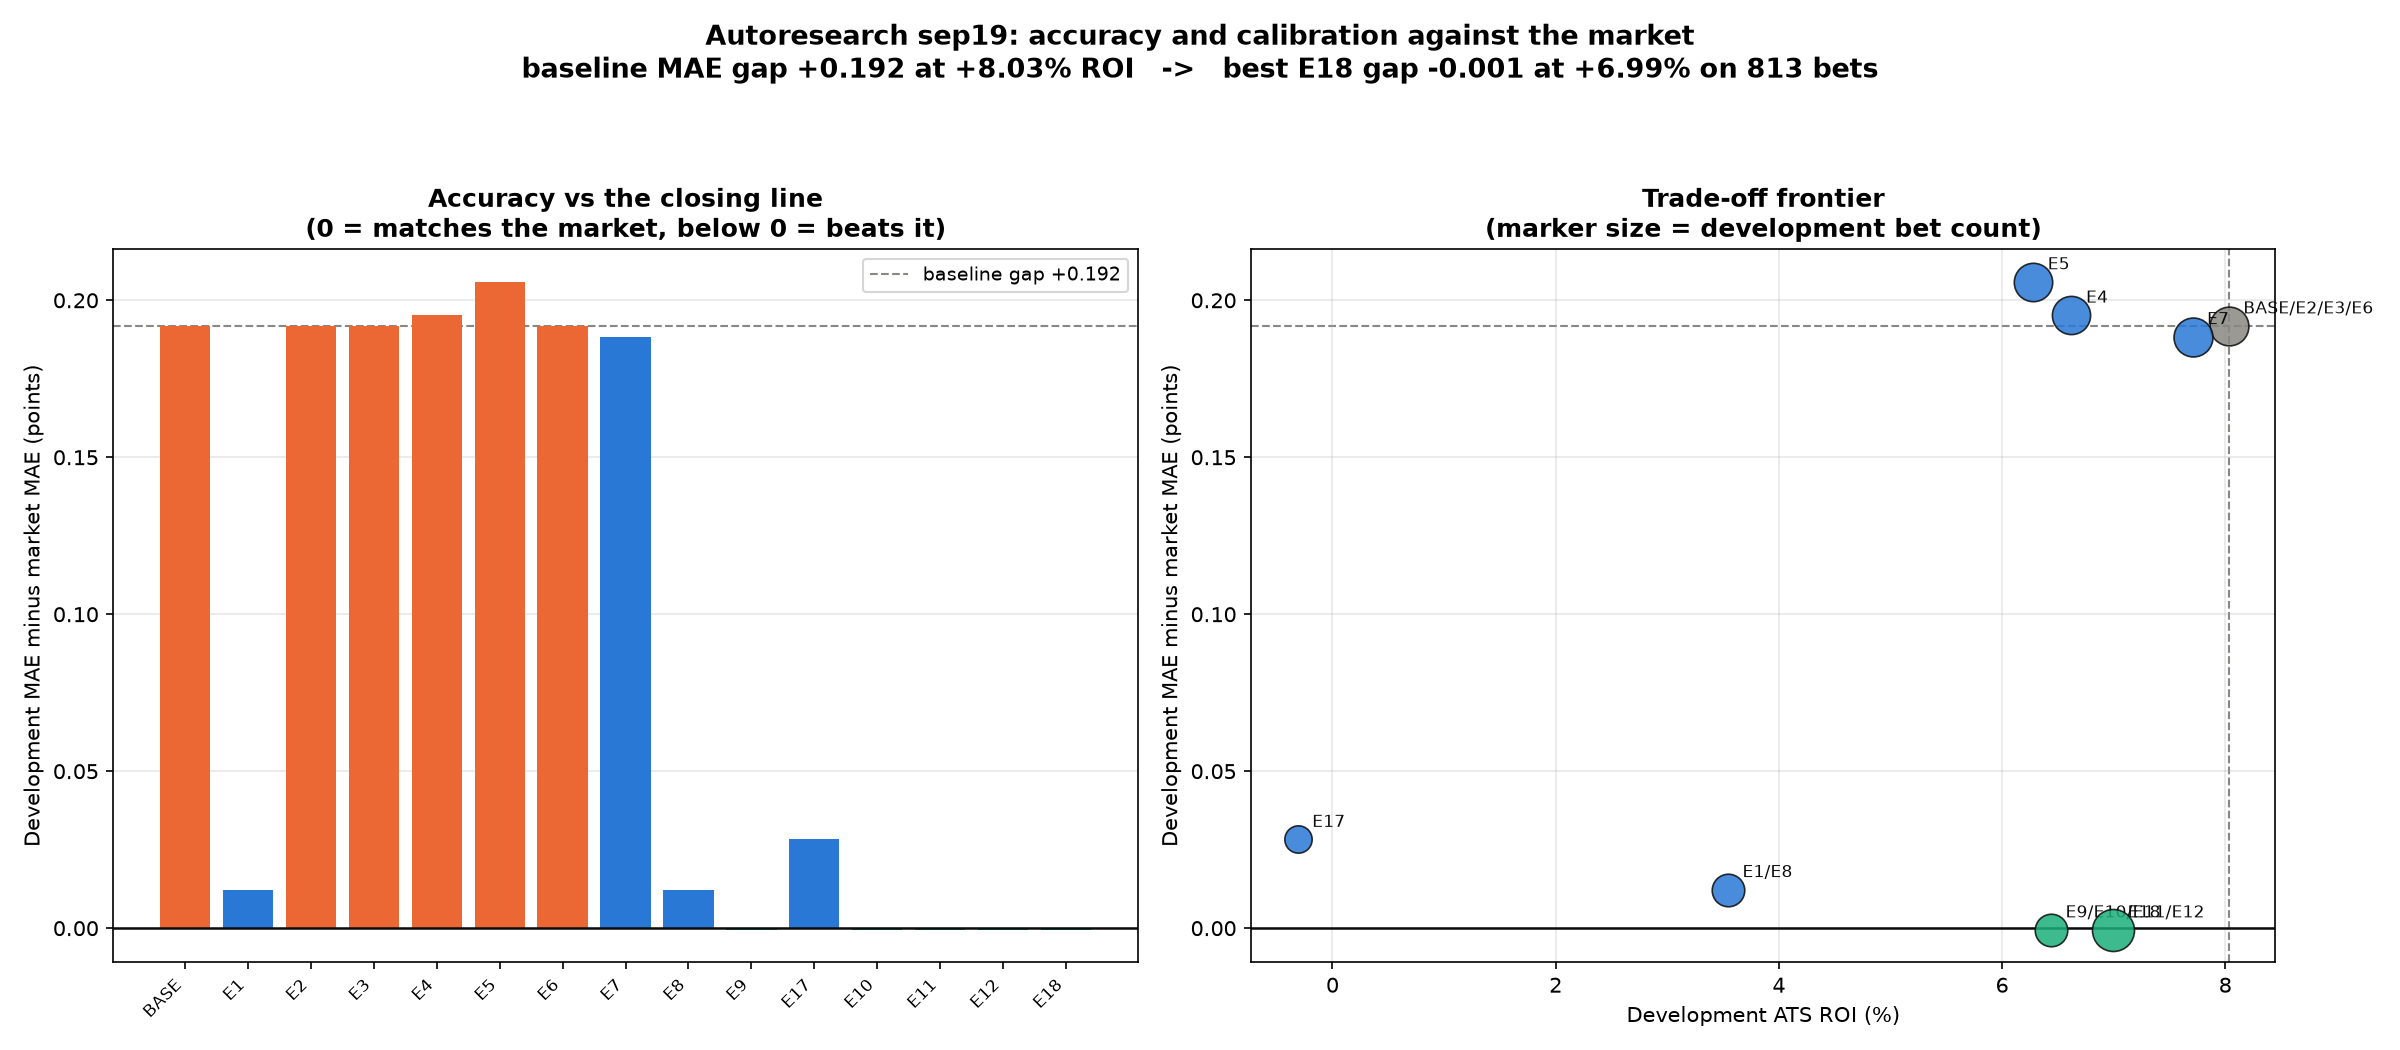
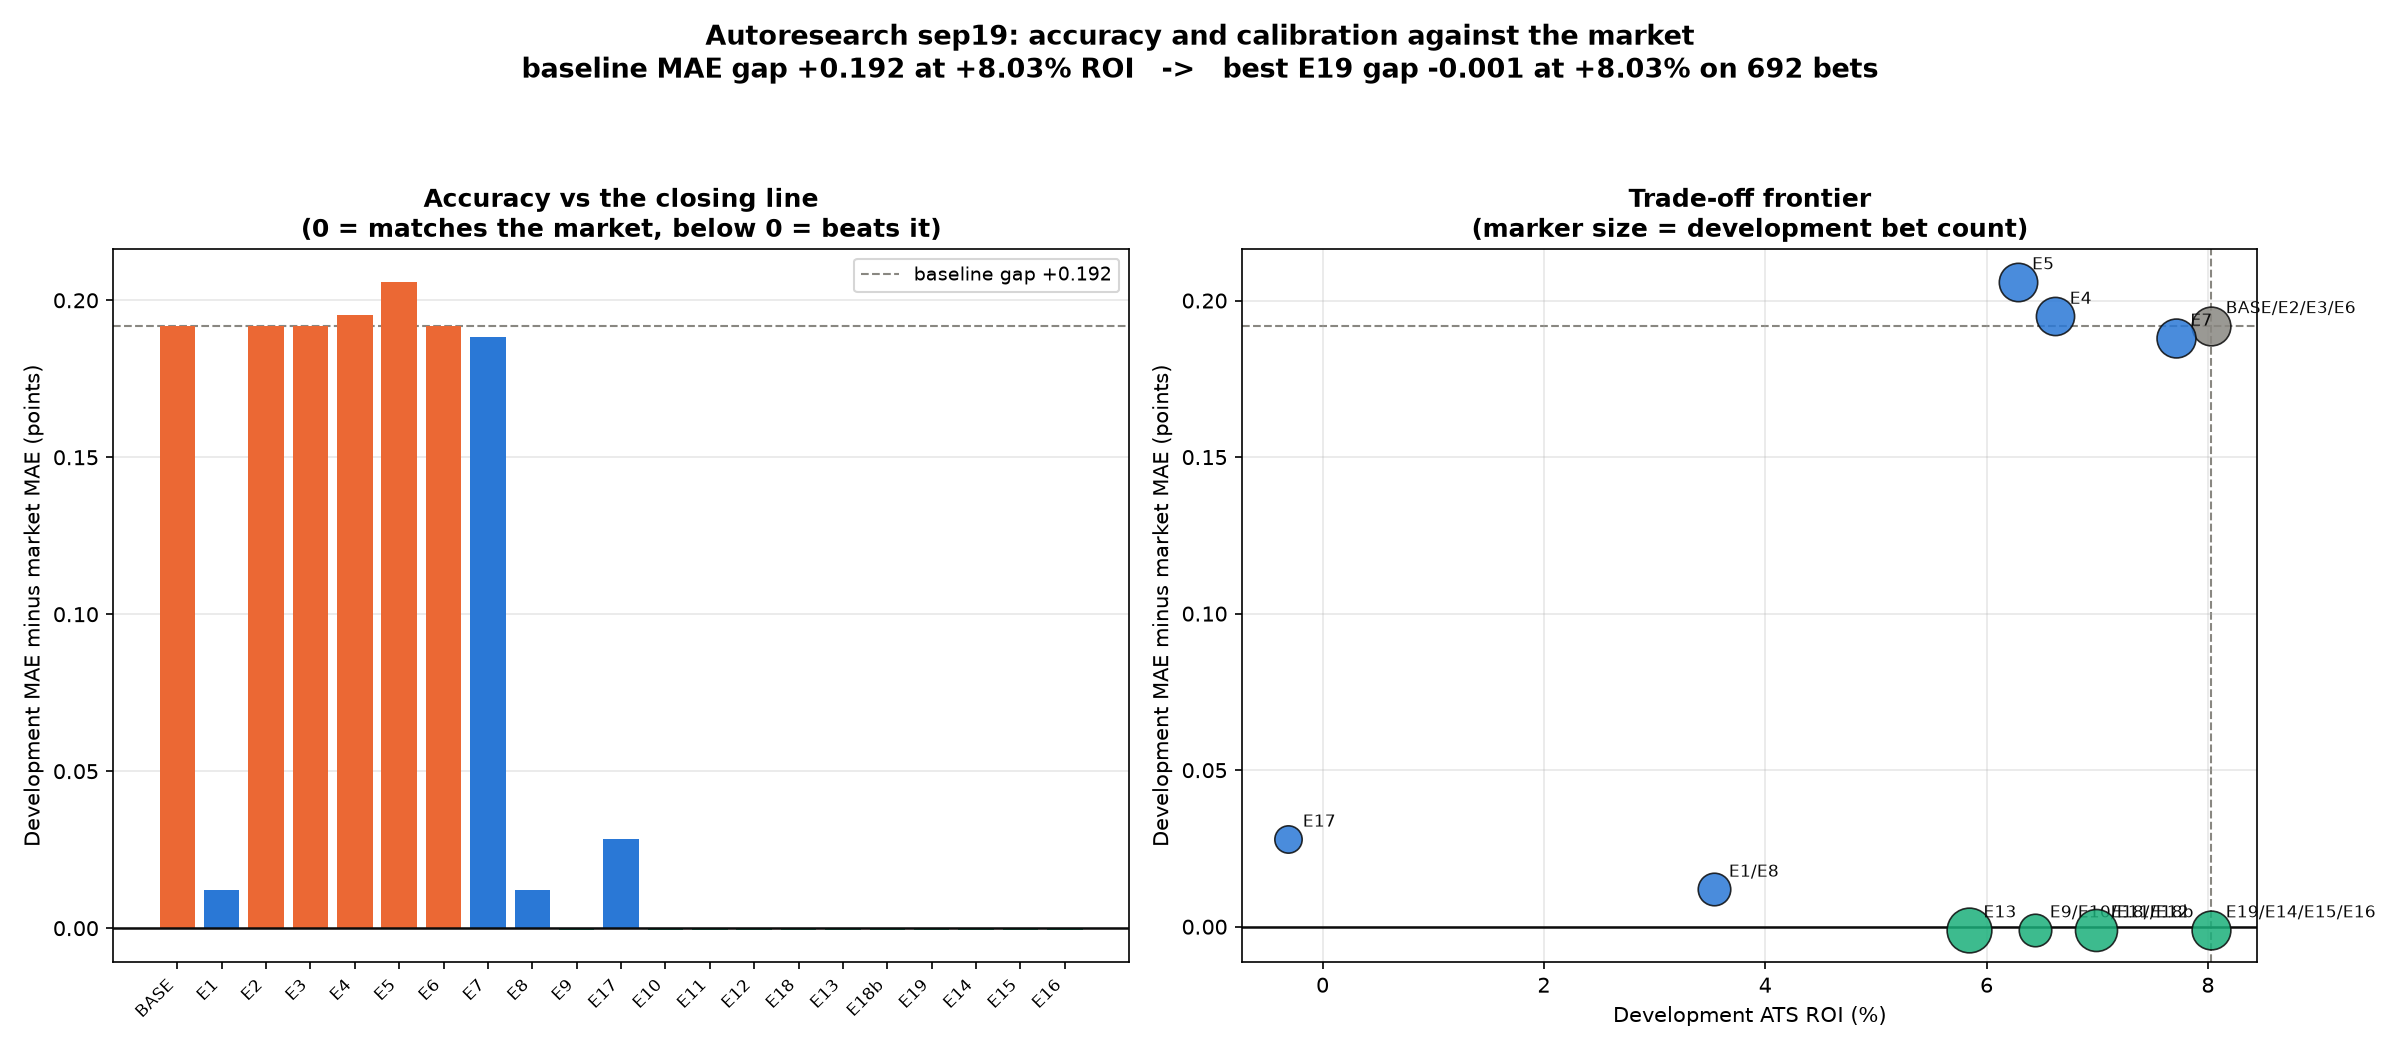
outputs: round-3b results in the accuracy log and chart; bug ledger update
accuracy_log.tsv gains the six round-3b experiments, parsed from their
frozen summary.txt files rather than the workflow task output, which lives
in a session temp directory and will not survive.

plot_accuracy_progress.py: compare MAE gaps at 3 decimals when picking the
headline "best" and when merging coincident points. At full float precision
a row parsed from a 4-decimal summary.txt lost to an identical one carried
through at full precision, so the title named E18 (+6.99% on 813 bets)
instead of E19 (+8.03% on 692) despite an identical MAE gap. A thousandth
of a point of MAE is far below anything meaningful here.

BUGS.md: item 1 rewritten -- the 2afa00d fix was half a fix, and f306990
completes it (the *_roll8 columns were never null, so forward-filling nulls
did not touch them). Adds items 11 and 12, both adoption blockers for the
anchored ensemble: the dashboard reads ats_edge rather than the new
ats_edge_select, and ats_edge_shrinkage/ats_edge_shrunk keep their names
while changing meaning.

diff --git a/scripts/plot_accuracy_progress.py b/scripts/plot_accuracy_progress.py
@@ -102,7 +102,7 @@ def main():
     for r in rows:
         if r["dev_mae_gap"] is None or r["ats_dev_roi"] is None:
             continue
-        key = (round(r["ats_dev_roi"], 6), round(r["dev_mae_gap"], 6))
+        key = (round(r["ats_dev_roi"], 4), round(r["dev_mae_gap"], 3))
         merged.setdefault(key, []).append(r)
 
     for (roi, mae), group in merged.items():
@@ -124,12 +124,17 @@ def main():
                   fontsize=12, fontweight="bold")
     ax2.grid(True, alpha=0.3, zorder=0)
 
-    # Best = smallest MAE gap, breaking the frequent exact ties (a
-    # calibration-only change moves neither ROI nor MAE) on ROI first and bet
-    # count second, so the headline names the variant actually worth keeping.
+    # Best = smallest MAE gap, breaking ties on ROI first and bet count
+    # second, so the headline names the variant actually worth keeping.
+    # Ties are frequent and must be treated as ties: a calibration-only change
+    # moves neither ROI nor MAE, and several rows share one bet universe.
+    # Rounded to 3 decimals deliberately -- a thousandth of a point of MAE is
+    # far below anything meaningful here, and comparing at full float
+    # precision let a row parsed from a 4-decimal summary.txt lose to an
+    # identical one carried at full precision from a workflow result.
     best = min(
         (r for r in rows if r["dev_mae_gap"] is not None),
-        key=lambda r: (round(r["dev_mae_gap"], 6), -(r["ats_dev_roi"] or 0), -r["ats_dev_n"]),
+        key=lambda r: (round(r["dev_mae_gap"], 3), -(r["ats_dev_roi"] or 0), -r["ats_dev_n"]),
     )
     fig.suptitle(
         f"Autoresearch sep19: accuracy and calibration against the market\n"

diff --git a/BUGS.md b/BUGS.md
@@ -10,15 +10,36 @@ the production model) · **LIMITATION** (known, not fixable with current data).
 
 ---
 
-## 1. Team rolling form is null for any game beyond the current week — FIXED (2afa00d)
+## 1. Team rolling form is wrong for games beyond the current week — FIXED (2afa00d, completed by f306990)
 
-**Status:** `feature_engineering._carry_form_into_unplayed` forward-fills
-within team into unplayed rows only. Verified on 2026-09-20: all eleven
-prediction and bet tables byte-identical to the baseline run, played rows of
-the modeling table identical, and the six team-form features have 0 nulls
-on all 31 upcoming games (was 16) and on all 255 unplayed 2026 games.
-Twenty of 31 live predictions changed; qualifying picks went from 1 ATS /
-6 ML to 2 ATS / 5 ML. Independently reviewed as part of round 3.
+**Status:** fixed in two passes, because the first was only half of it.
+
+`2afa00d` added `feature_engineering._carry_form_into_unplayed`, forward-filling
+nulls within team into unplayed rows only. That repaired the `*_ewm` columns:
+the six team-form features went from 16 of 31 upcoming games null to 0, and
+0 nulls across all 255 unplayed 2026 games.
+
+**An adversarial review then showed the `*_roll8` columns were untouched by
+that fix, because they were never null.** `rolling_mean(min_samples=1)` skips
+nulls inside its window instead of returning null, so a team's k-th unplayed
+game averaged its last `window - k + 1` completed games: a sample that shrinks
+week by week until it is a single game, and then sticks there. Measured drift
+on `margin_roll8` against the team's true current form: 1.4 points at the next
+game, 2.5 at the one after, 11.1 by the eighth. LightGBM consumes every
+`*_roll8_diff` (`modeling.gbm_feature_columns`), so this reached the LightGBM
+rows of the live board; ridge reads only the `_ewm` columns and was unaffected
+by this second failure, and the ensemble excludes LightGBM.
+
+`f306990` sources the carried value explicitly from each team's FIRST unplayed
+game, the only scheduled row whose window is entirely completed games, then
+forward-fills. Verified: every form column is now constant across each team's
+unplayed rows with zero nulls (Kansas City holds -2.25 for every remaining
+week, against -2.25 / -3.0 / ... / 21.0 before), the backtest is byte-identical
+across 13 prediction, bet and contribution tables, and played rows of the
+modeling table are unchanged.
+
+**Lesson worth keeping:** the two rolling functions in `_rolling_exprs` have
+opposite null semantics. Any future change there must check both.
 
 **Where:** `feature_engineering._rolling_exprs` / `add_rolling_form`.
 **What:** rolling form is `shift(1).over(team)` then `ewm_mean(min_samples=1)`.
@@ -87,6 +108,29 @@ inferred, not proven: the task runs interactively with a visible console
 that can be closed, and only while the user is logged on.
 **Fix:** register the action with `-WindowStyle Hidden` and an S4U principal
 so it does not depend on the interactive session; verify with a manual run.
+
+## 11. Dashboard would read the wrong edge column under an anchored ensemble — OPEN (blocks adoption of E19)
+
+**Where:** `app/streamlit_app.py` `regraded_bets` and the two `decide_bet_side`
+call sites; `backtesting.regrade_ats` / `decide_bet_side` default to `ats_edge`.
+**What:** the adopted candidate E19 reports the anchored margin but selects
+bets on `ats_edge_select` / `ats_select_threshold_used`. The dashboard reads
+`ats_edge` / `ats_threshold_used`, which under E19 are the anchored (roughly
+4x smaller) display values. The reviewer measured it against the E19 parquet:
+"Pipeline (per game)" mode yields 573 bets agreeing with the stored book on
+only 2,987 of 3,312 rows, and the manual 3.5-point slider yields 4 bets.
+**Not yet a live defect** — E19 is not merged, and against today's parquets the
+dashboard is correct. Must be fixed in the same change that merges E19: prefer
+the `_select` columns when present, fall back to the current ones.
+
+## 12. Column semantics change silently under anchoring — OPEN (documentation, blocks adoption)
+
+**What:** under E19, `ats_edge_shrinkage` (median 0.911 vs the baseline's
+0.258) and `ats_edge_shrunk` describe shrinkage of an already-anchored edge,
+and the scorer's reported shrink slope and threshold (0.921 / 1.14 against
+0.258 / 3.50) are on the reported scale. Same names, different meaning, so
+any comparison against a pre-anchoring run is invalid unless it is stated.
+Needs a note in `config.py` and the dashboard's Methodology tab at merge time.
 
 ## 5. Adaptive moneyline threshold can go negative — EXPERIMENT-ONLY
 
